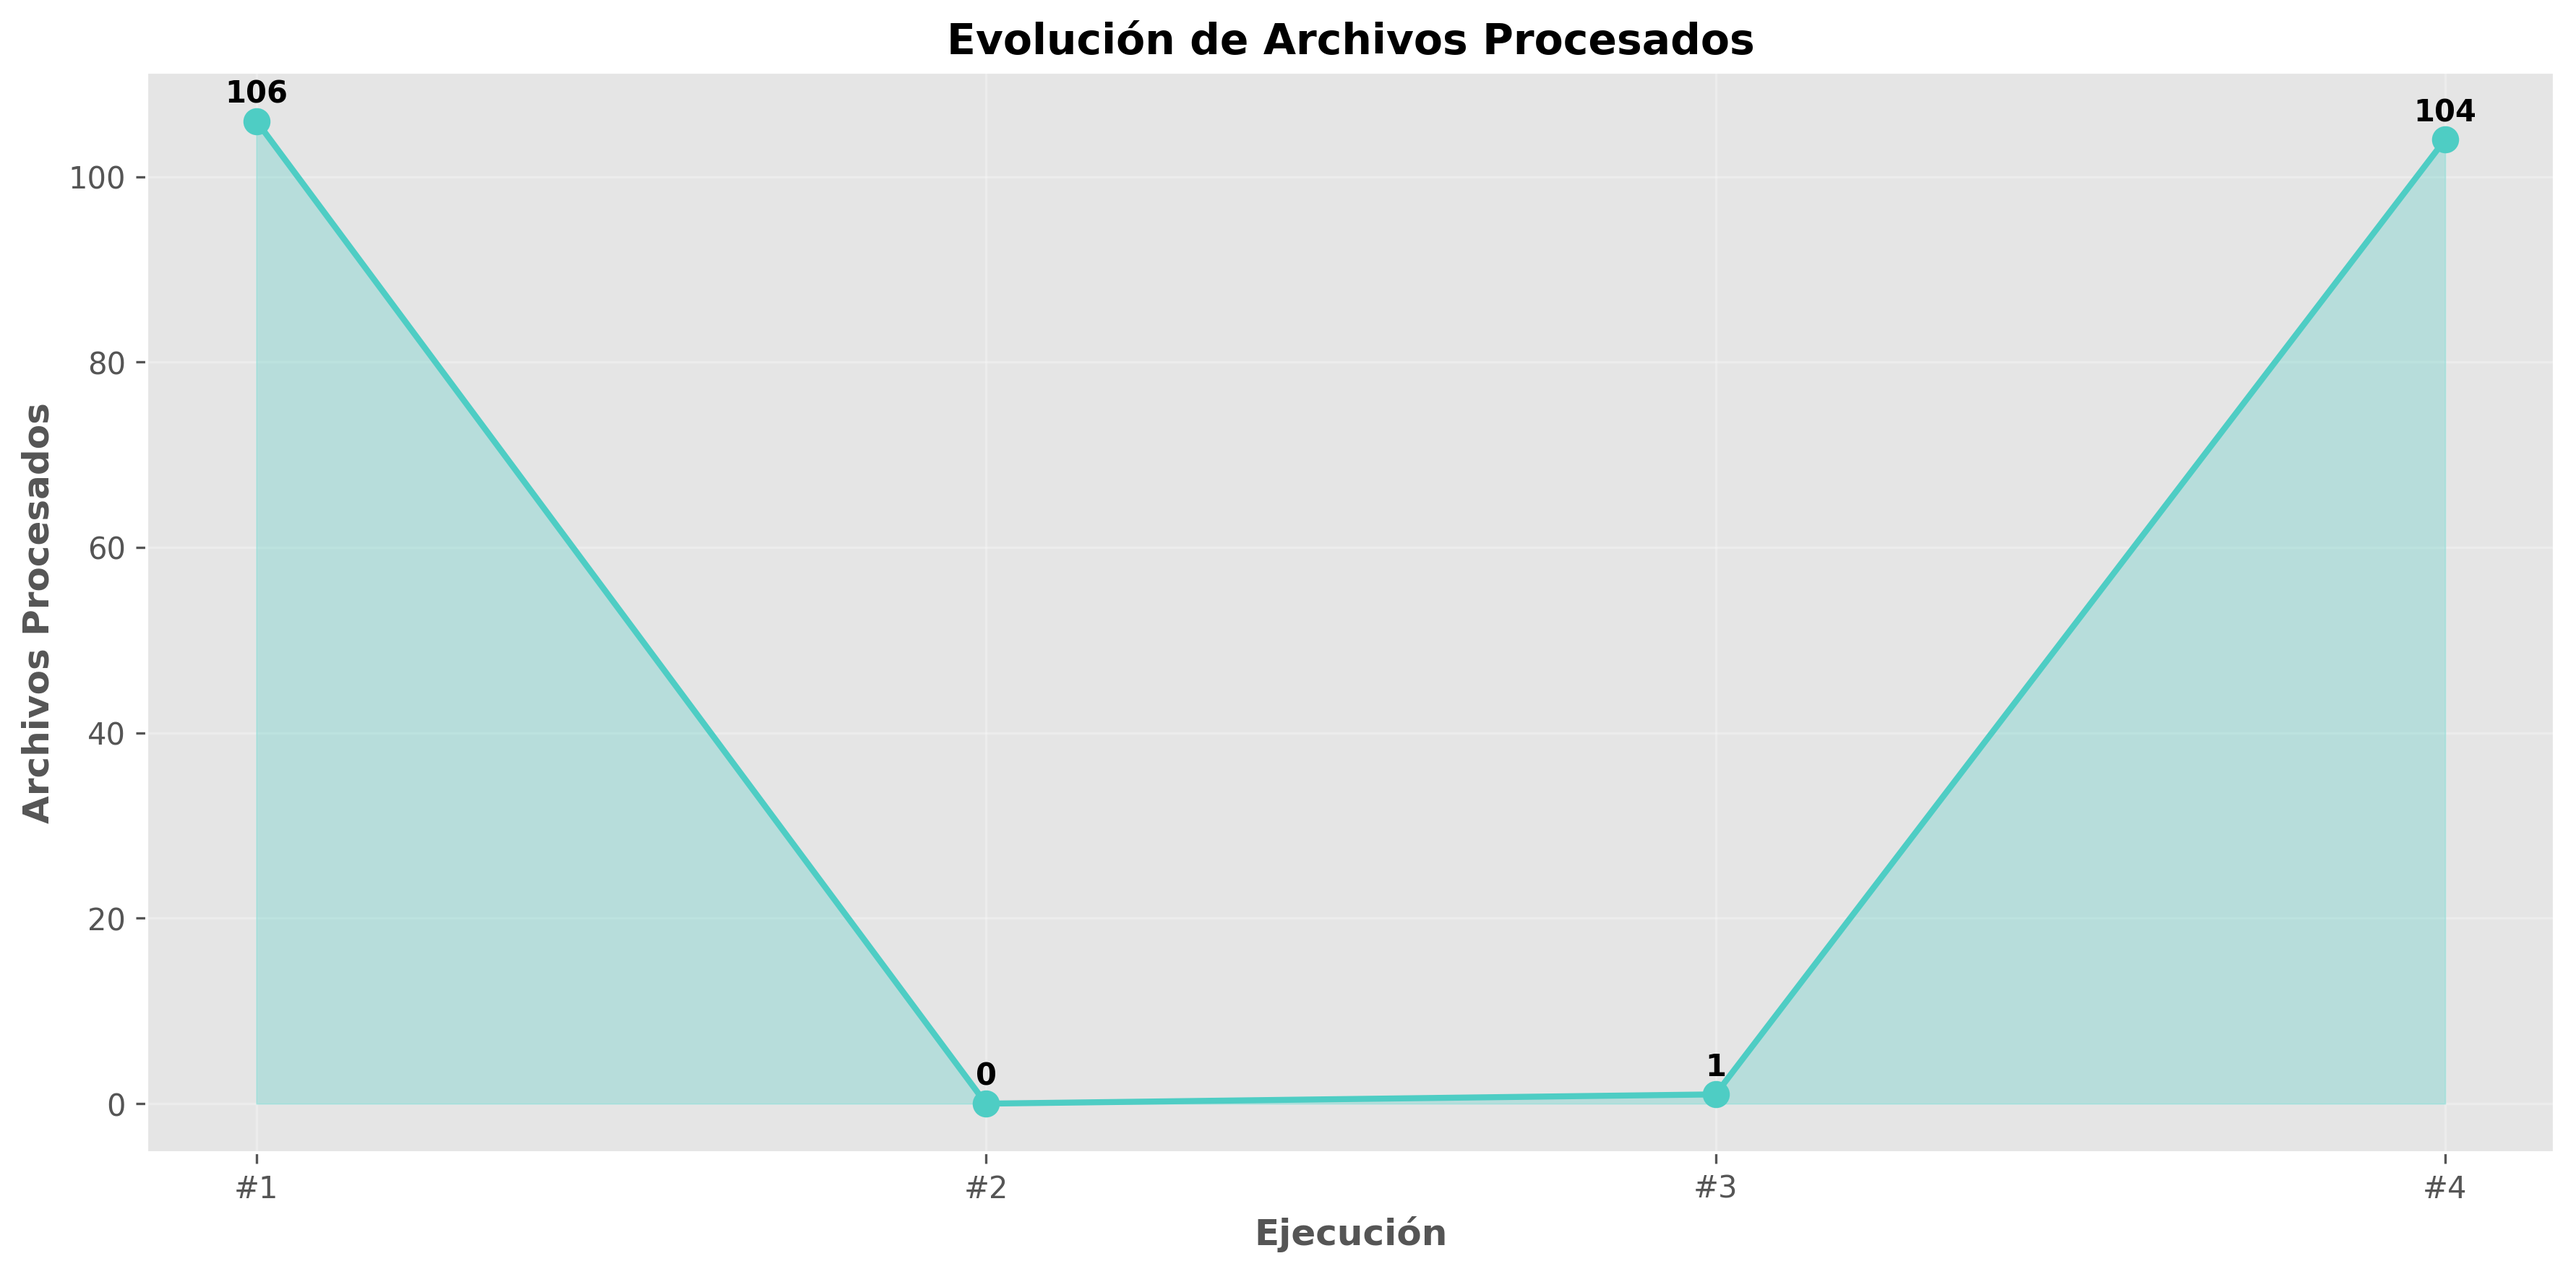
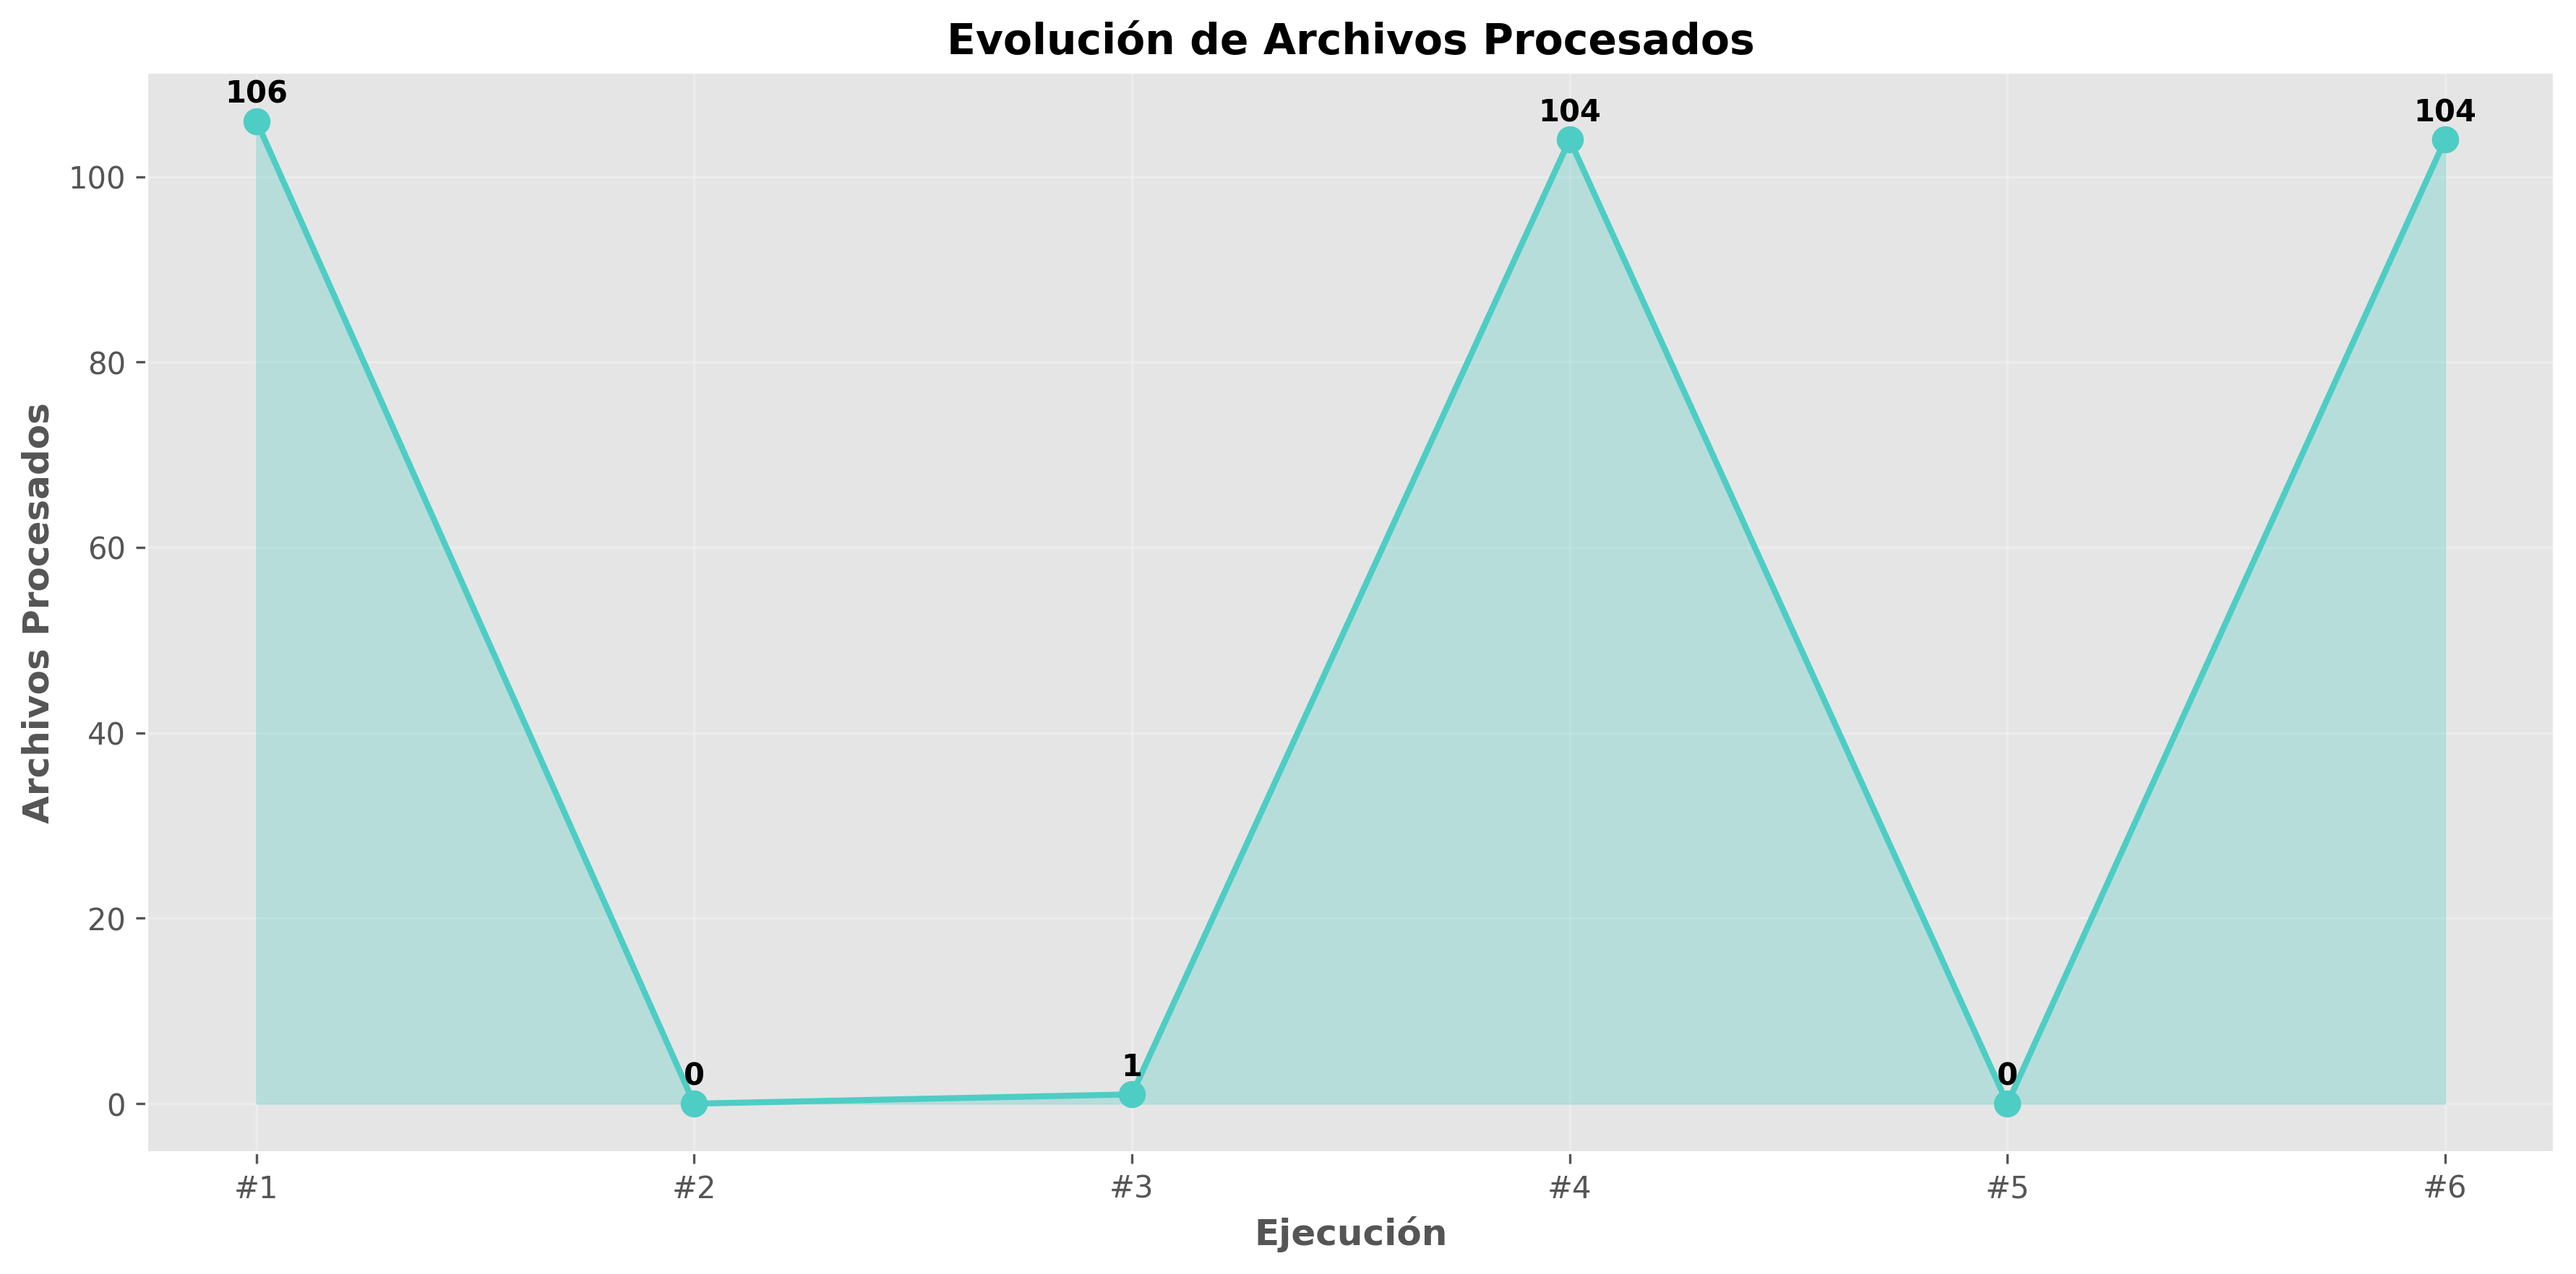
Día 5: Organización jerárquica con subcategorías
- Estructura de 2 niveles (Categoría/Subcategoría)
- Documentos divididos en: PDFs, Excel, Word, Presentaciones, Textos
- Multimedia: Videos y Audio separados
- Modo dry-run mejorado para vista previa
- 208 documentos organizados en 5 subcategorías

Resultado: Navegación 5x más eficiente

Changed region(s): [[0.0934, 0.0624, 0.9343, 0.873], [0.9343, 0.1247, 0.9655, 0.1559]]

diff --git a/dashboard.html b/dashboard.html
@@ -73,16 +73,16 @@
 <body>
     <div class="container">
         <h1>📊 Dashboard de Organización</h1>
-        <p class="subtitle">Análisis de 4 ejecuciones | Generado: 23/02/2026 18:48</p>
+        <p class="subtitle">Análisis de 6 ejecuciones | Generado: 26/02/2026 17:17</p>
         
         <div class="stats">
             <div class="stat-card">
                 <div class="stat-label">Total Archivos</div>
-                <div class="stat-number">211</div>
+                <div class="stat-number">315</div>
             </div>
             <div class="stat-card">
                 <div class="stat-label">Ejecuciones</div>
-                <div class="stat-number">4</div>
+                <div class="stat-number">6</div>
             </div>
             <div class="stat-card">
                 <div class="stat-label">Tasa de Éxito</div>
@@ -90,7 +90,7 @@
             </div>
             <div class="stat-card">
                 <div class="stat-label">Promedio/Ejecución</div>
-                <div class="stat-number">53</div>
+                <div class="stat-number">52</div>
             </div>
         </div>
         

diff --git a/organizar_v3_subcategorias.py b/organizar_v3_subcategorias.py
@@ -1,0 +1,237 @@
+import os
+import shutil
+import json
+from pathlib import Path
+from datetime import datetime
+
+class OrganizadorJerarquico:
+    """Organizador con subcategorías inteligentes"""
+    
+    def __init__(self, carpeta_origen, dry_run=False):
+        self.carpeta_origen = carpeta_origen
+        self.dry_run = dry_run
+        self.timestamp = datetime.now().strftime("%Y%m%d_%H%M%S")
+        
+        Path("logs").mkdir(exist_ok=True)
+        
+        # Estructura jerárquica: Categoría → Subcategoría → Extensiones
+        self.estructura = {
+            'Imagenes': {
+                'Fotos': ['.jpg', '.jpeg', '.heic'],
+                'Graficos': ['.png', '.svg', '.webp'],
+                'Animaciones': ['.gif']
+            },
+            'Documentos': {
+                'PDFs': ['.pdf'],
+                'Excel': ['.xlsx', '.xls', '.xlsm', '.csv'],
+                'Word': ['.docx', '.doc', '.odt'],
+                'Presentaciones': ['.pptx', '.ppt'],
+                'Textos': ['.txt', '.md', '.rtf']
+            },
+            'Multimedia': {
+                'Videos': ['.mp4', '.avi', '.mov', '.mkv', '.flv'],
+                'Audio': ['.mp3', '.wav', '.flac', '.m4a', '.aac']
+            },
+            'Archivos': {
+                'Comprimidos': ['.zip', '.rar', '.7z', '.tar', '.gz'],
+                'Codigo': ['.py', '.js', '.html', '.css', '.java', '.cpp', '.sh'],
+                'Ejecutables': ['.exe', '.dmg', '.app', '.deb']
+            }
+        }
+        
+        self.stats = {
+            'timestamp': self.timestamp,
+            'modo': 'dry-run' if dry_run else 'ejecucion',
+            'archivos_procesados': 0,
+            'archivos_movidos': 0,
+            'errores': 0,
+            'por_categoria': {},
+            'por_subcategoria': {}
+        }
+    
+    def crear_estructura(self):
+        """Crea toda la jerarquía de carpetas"""
+        print("📁 Creando estructura de carpetas...\n")
+        
+        for categoria, subcategorias in self.estructura.items():
+            for subcategoria in subcategorias.keys():
+                ruta = Path(f"{self.carpeta_origen}/{categoria}/{subcategoria}")
+                
+                if not self.dry_run:
+                    ruta.mkdir(parents=True, exist_ok=True)
+                
+                # Inicializar contadores
+                key = f"{categoria}/{subcategoria}"
+                self.stats['por_subcategoria'][key] = 0
+                
+                if self.dry_run:
+                    print(f"  CREARÍA: {key}/")
+        
+        # Categoría "Otros" sin subcategorías
+        if not self.dry_run:
+            Path(f"{self.carpeta_origen}/Otros").mkdir(exist_ok=True)
+        self.stats['por_subcategoria']['Otros'] = 0
+        
+        print()
+    
+    def encontrar_ubicacion(self, extension):
+        """Encuentra la categoría y subcategoría para una extensión"""
+        ext_lower = extension.lower()
+        
+        for categoria, subcategorias in self.estructura.items():
+            for subcategoria, extensiones in subcategorias.items():
+                if ext_lower in extensiones:
+                    return categoria, subcategoria
+        
+        return 'Otros', None
+    
+    def organizar(self):
+        """Proceso principal de organización"""
+        if self.dry_run:
+            print("\n🔍 MODO DRY-RUN (Simulación)\n")
+        else:
+            print("\n🚀 ORGANIZANDO CON SUBCATEGORÍAS...\n")
+        
+        self.crear_estructura()
+        
+        try:
+            # Obtener archivos (excluyendo carpetas ya creadas)
+            archivos = []
+            for item in os.listdir(self.carpeta_origen):
+                ruta_completa = os.path.join(self.carpeta_origen, item)
+                if os.path.isfile(ruta_completa):
+                    archivos.append(item)
+            
+            print(f"📂 Archivos a procesar: {len(archivos)}\n")
+            
+            for archivo in archivos:
+                self.procesar_archivo(archivo)
+            
+            self.mostrar_reporte()
+            
+            if not self.dry_run:
+                self.guardar_reporte()
+        
+        except Exception as e:
+            print(f"❌ Error crítico: {str(e)}")
+    
+    def procesar_archivo(self, archivo):
+        """Procesa un archivo individual"""
+        self.stats['archivos_procesados'] += 1
+        
+        ext = Path(archivo).suffix
+        categoria, subcategoria = self.encontrar_ubicacion(ext)
+        
+        # Construir ruta destino
+        if subcategoria:
+            ruta_destino = f"{categoria}/{subcategoria}"
+        else:
+            ruta_destino = categoria
+        
+        # Actualizar estadísticas
+        self.stats['por_subcategoria'][ruta_destino] = \
+            self.stats['por_subcategoria'].get(ruta_destino, 0) + 1
+        
+        if self.dry_run:
+            print(f"  MOVERÍA: {archivo:40} → {ruta_destino}/")
+        else:
+            try:
+                origen = os.path.join(self.carpeta_origen, archivo)
+                destino = os.path.join(self.carpeta_origen, ruta_destino, archivo)
+                
+                # Verificar duplicado
+                if os.path.exists(destino):
+                    nombre, extension = os.path.splitext(archivo)
+                    nuevo_nombre = f"{nombre}_{self.timestamp}{extension}"
+                    destino = os.path.join(self.carpeta_origen, ruta_destino, nuevo_nombre)
+                    print(f"  ⚠  Renombrado: {archivo} → {nuevo_nombre}")
+                
+                shutil.move(origen, destino)
+                self.stats['archivos_movidos'] += 1
+                print(f"  ✅ {archivo:40} → {ruta_destino}/")
+                
+            except Exception as e:
+                print(f"  ❌ Error con {archivo}: {str(e)}")
+                self.stats['errores'] += 1
+    
+    def mostrar_reporte(self):
+        """Muestra reporte en consola"""
+        print("\n" + "="*70)
+        print("📊 REPORTE DE ORGANIZACIÓN JERÁRQUICA")
+        print("="*70)
+        
+        print(f"\nArchivos procesados: {self.stats['archivos_procesados']}")
+        
+        if not self.dry_run:
+            print(f"Archivos movidos: {self.stats['archivos_movidos']}")
+            print(f"Errores: {self.stats['errores']}")
+        
+        print("\n📁 Distribución por ubicación:\n")
+        
+        # Agrupar por categoría principal
+        categorias = {}
+        for ubicacion, cantidad in self.stats['por_subcategoria'].items():
+            if cantidad > 0:
+                if '/' in ubicacion:
+                    categoria = ubicacion.split('/')[0]
+                else:
+                    categoria = ubicacion
+                
+                if categoria not in categorias:
+                    categorias[categoria] = []
+                categorias[categoria].append((ubicacion, cantidad))
+        
+        # Mostrar organizado
+        for categoria, items in sorted(categorias.items()):
+            total_cat = sum(cant for _, cant in items)
+            print(f"  📂 {categoria} ({total_cat} archivos)")
+            
+            for ubicacion, cantidad in sorted(items, key=lambda x: x[1], reverse=True):
+                if '/' in ubicacion:
+                    subcategoria = ubicacion.split('/')[1]
+                    print(f"     └─ {subcategoria}: {cantidad}")
+            print()
+    
+    def guardar_reporte(self):
+        """Guarda reporte JSON"""
+        archivo_reporte = f"logs/reporte_jerarquico_{self.timestamp}.json"
+        
+        with open(archivo_reporte, 'w', encoding='utf-8') as f:
+            json.dump(self.stats, f, indent=2, ensure_ascii=False)
+        
+        print(f"💾 Reporte guardado: {archivo_reporte}\n")
+
+
+def main():
+    import argparse
+    
+    parser = argparse.ArgumentParser(
+        description='🗂  Organizador jerárquico con subcategorías',
+        formatter_class=argparse.RawDescriptionHelpFormatter
+    )
+    
+    parser.add_argument(
+        '--carpeta', '-c',
+        type=str,
+        required=True,
+        help='Carpeta a organizar'
+    )
+    
+    parser.add_argument(
+        '--dry-run', '-d',
+        action='store_true',
+        help='Simulación (no mueve archivos)'
+    )
+    
+    args = parser.parse_args()
+    
+    if not os.path.exists(args.carpeta):
+        print(f"\n❌ Error: La carpeta '{args.carpeta}' no existe\n")
+        return
+    
+    organizador = OrganizadorJerarquico(args.carpeta, dry_run=args.dry_run)
+    organizador.organizar()
+
+
+if __name__ == "__main__":
+    main()

diff --git a/dashboard.py b/dashboard.py
@@ -50,6 +50,22 @@ class DashboardOrganizador:
         print(f"✅ Cargados {len(self.datos)} reportes\n")
         return True
     
+    # Agregar después de def cargar_datos():
+    def analizar_subcategorias(self):
+        """Analiza reportes jerárquicos"""
+        archivos = list(self.reportes_path.glob("reporte_jerarquico_*.json"))
+
+        if archivos:
+            ultimo = max(archivos, key=os.path.getctime)
+            with open(ultimo, 'r') as f:
+                data = json.load(f)
+
+            print("\n📊 Análisis de subcategorías:")
+            for ubicacion, cant in sorted(data['por_subcategoria'].items(), 
+                                          key=lambda x: x[1], reverse=True):
+                if cant > 0:
+                    print(f"  {ubicacion}: {cant}")
+                    
     def resumen_general(self):
         """Muestra estadísticas generales"""
         print("="*60)

diff --git a/README.md b/README.md
@@ -28,3 +28,28 @@
 - Logging profesional
 - Manejo de excepciones
 - Serialización JSON
+
+## Día 5: Subcategorización Jerárquica
+
+### Problema resuelto:
+- 208 documentos genéricos → 5 subcategorías específicas
+- Mejor navegabilidad y búsqueda
+
+### Estructura implementada:
+```
+Documentos/
+  ├── PDFs/
+  ├── Excel/
+  ├── Word/
+  ├── Presentaciones/
+  └── Textos/
+```
+
+### Mejoras vs Día 4:
+- Organización de 2 niveles (Categoría → Subcategoría)
+- Detección inteligente por extensión
+- Modo dry-run para pruebas seguras
+
+### Próxima optimización:
+- Organizar por fecha de creación
+- Detección de contenido (facturas, reportes)
